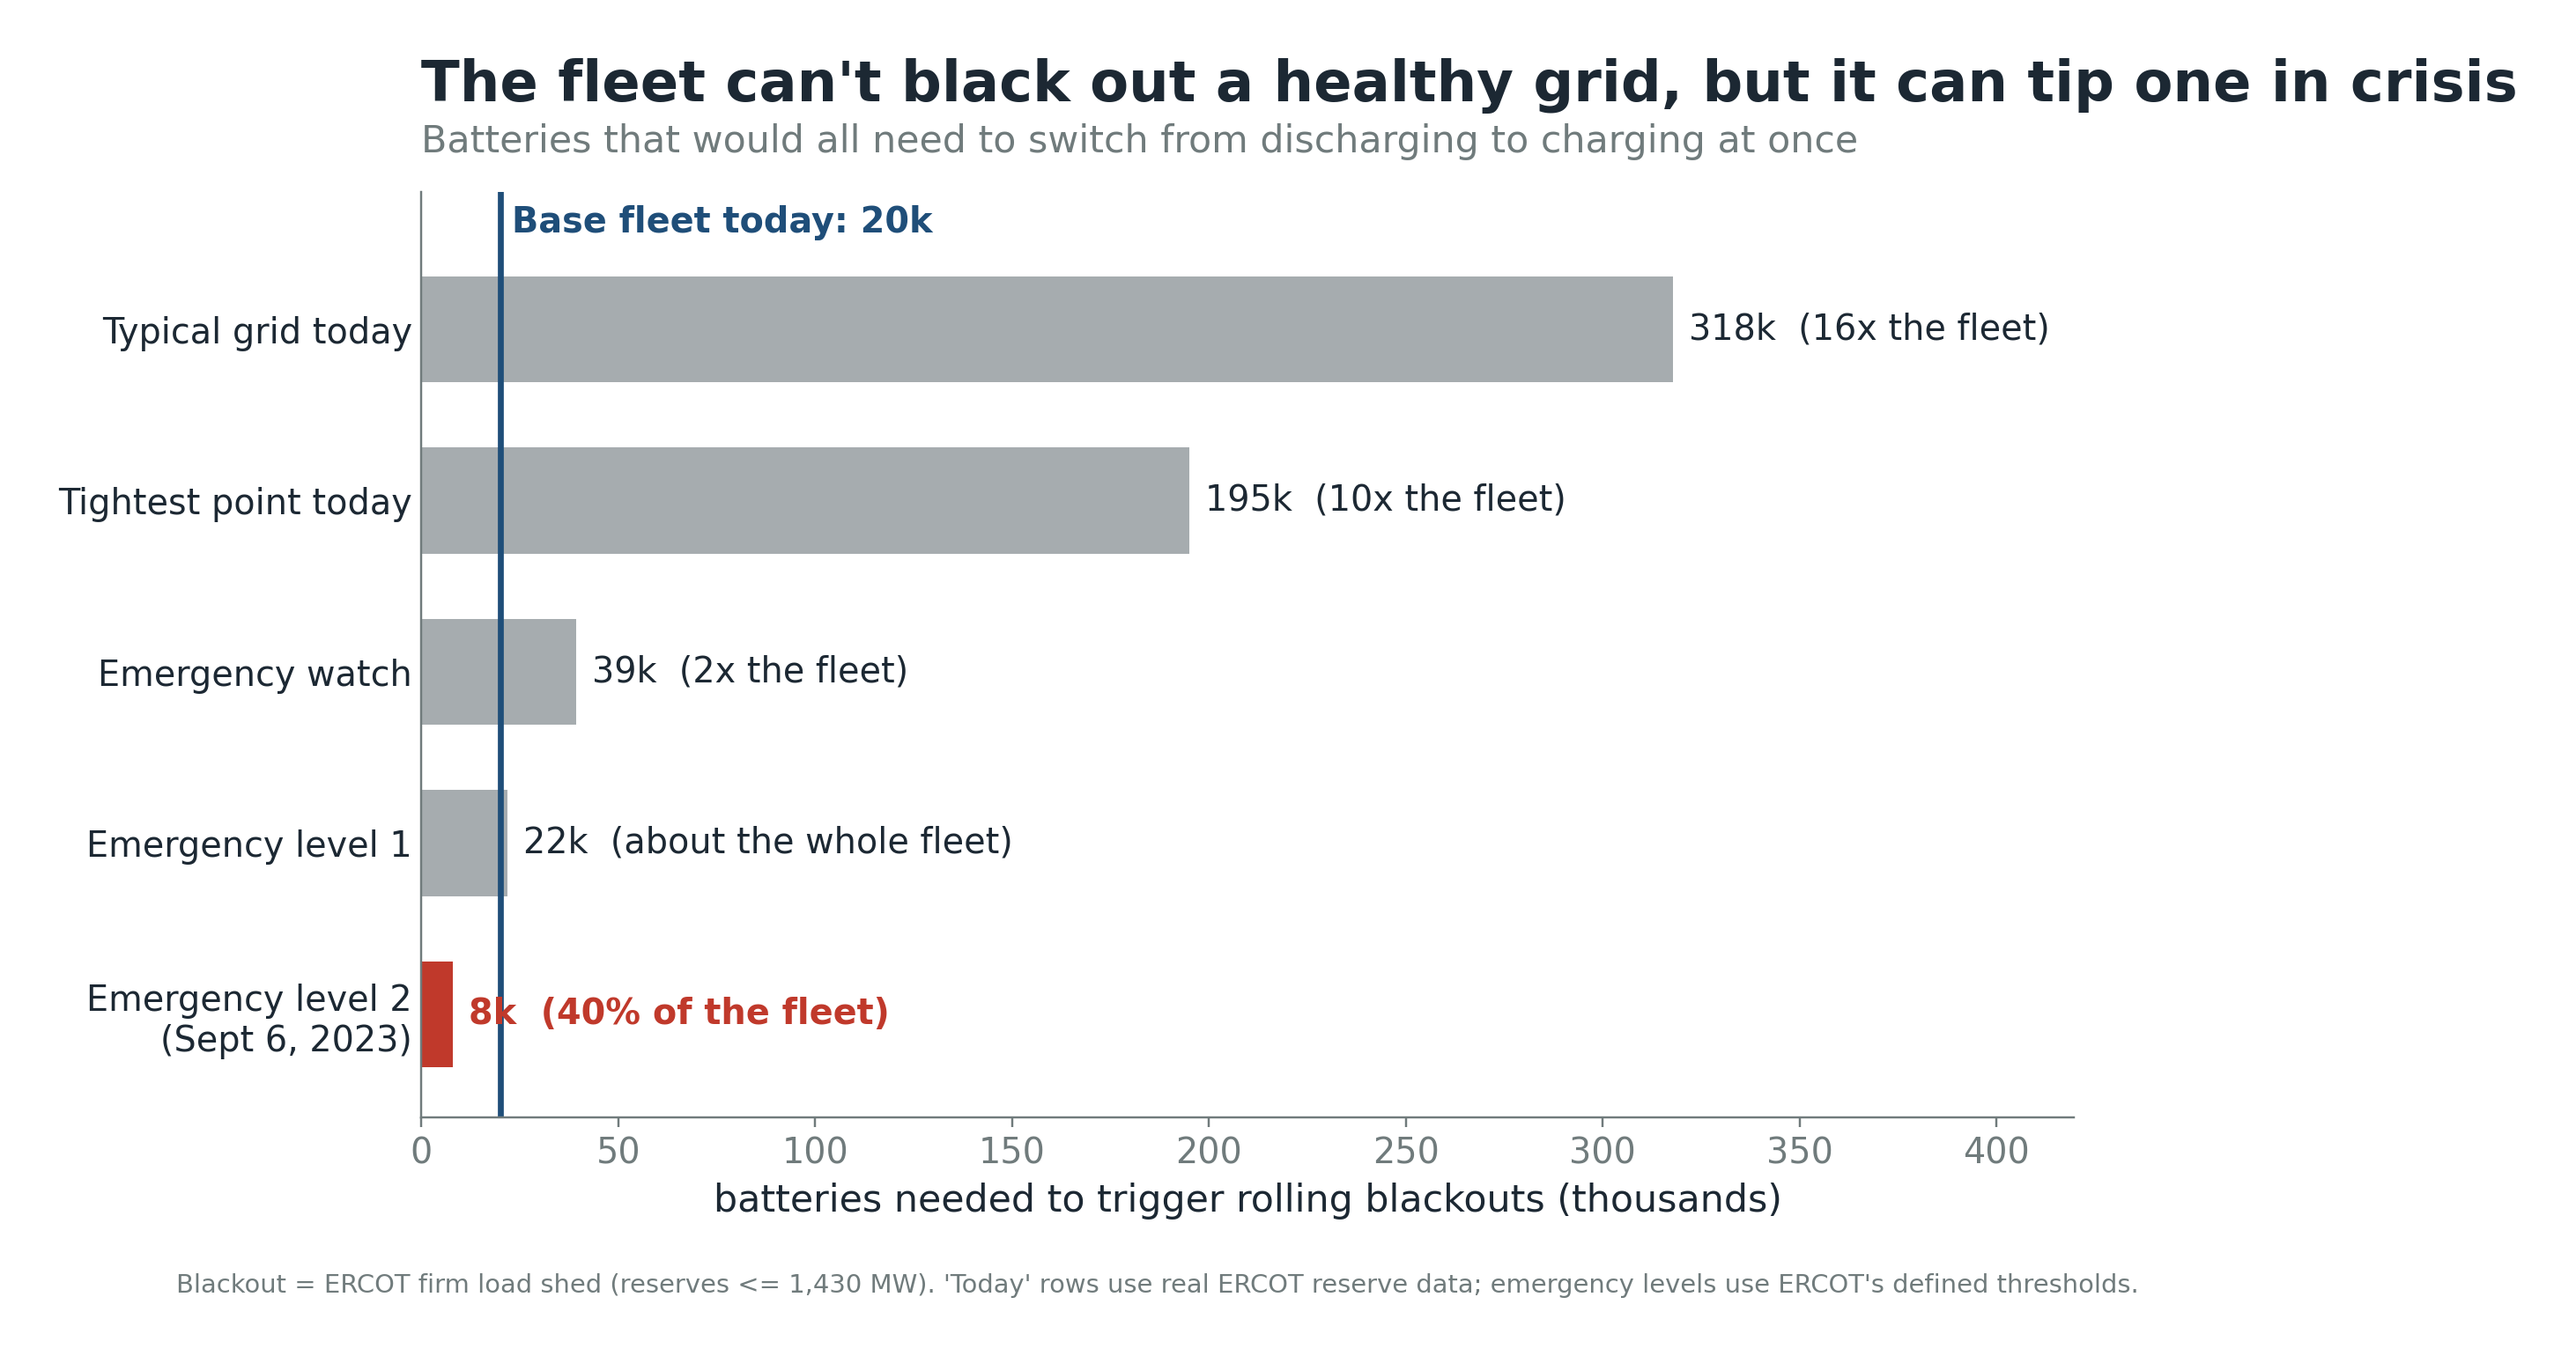
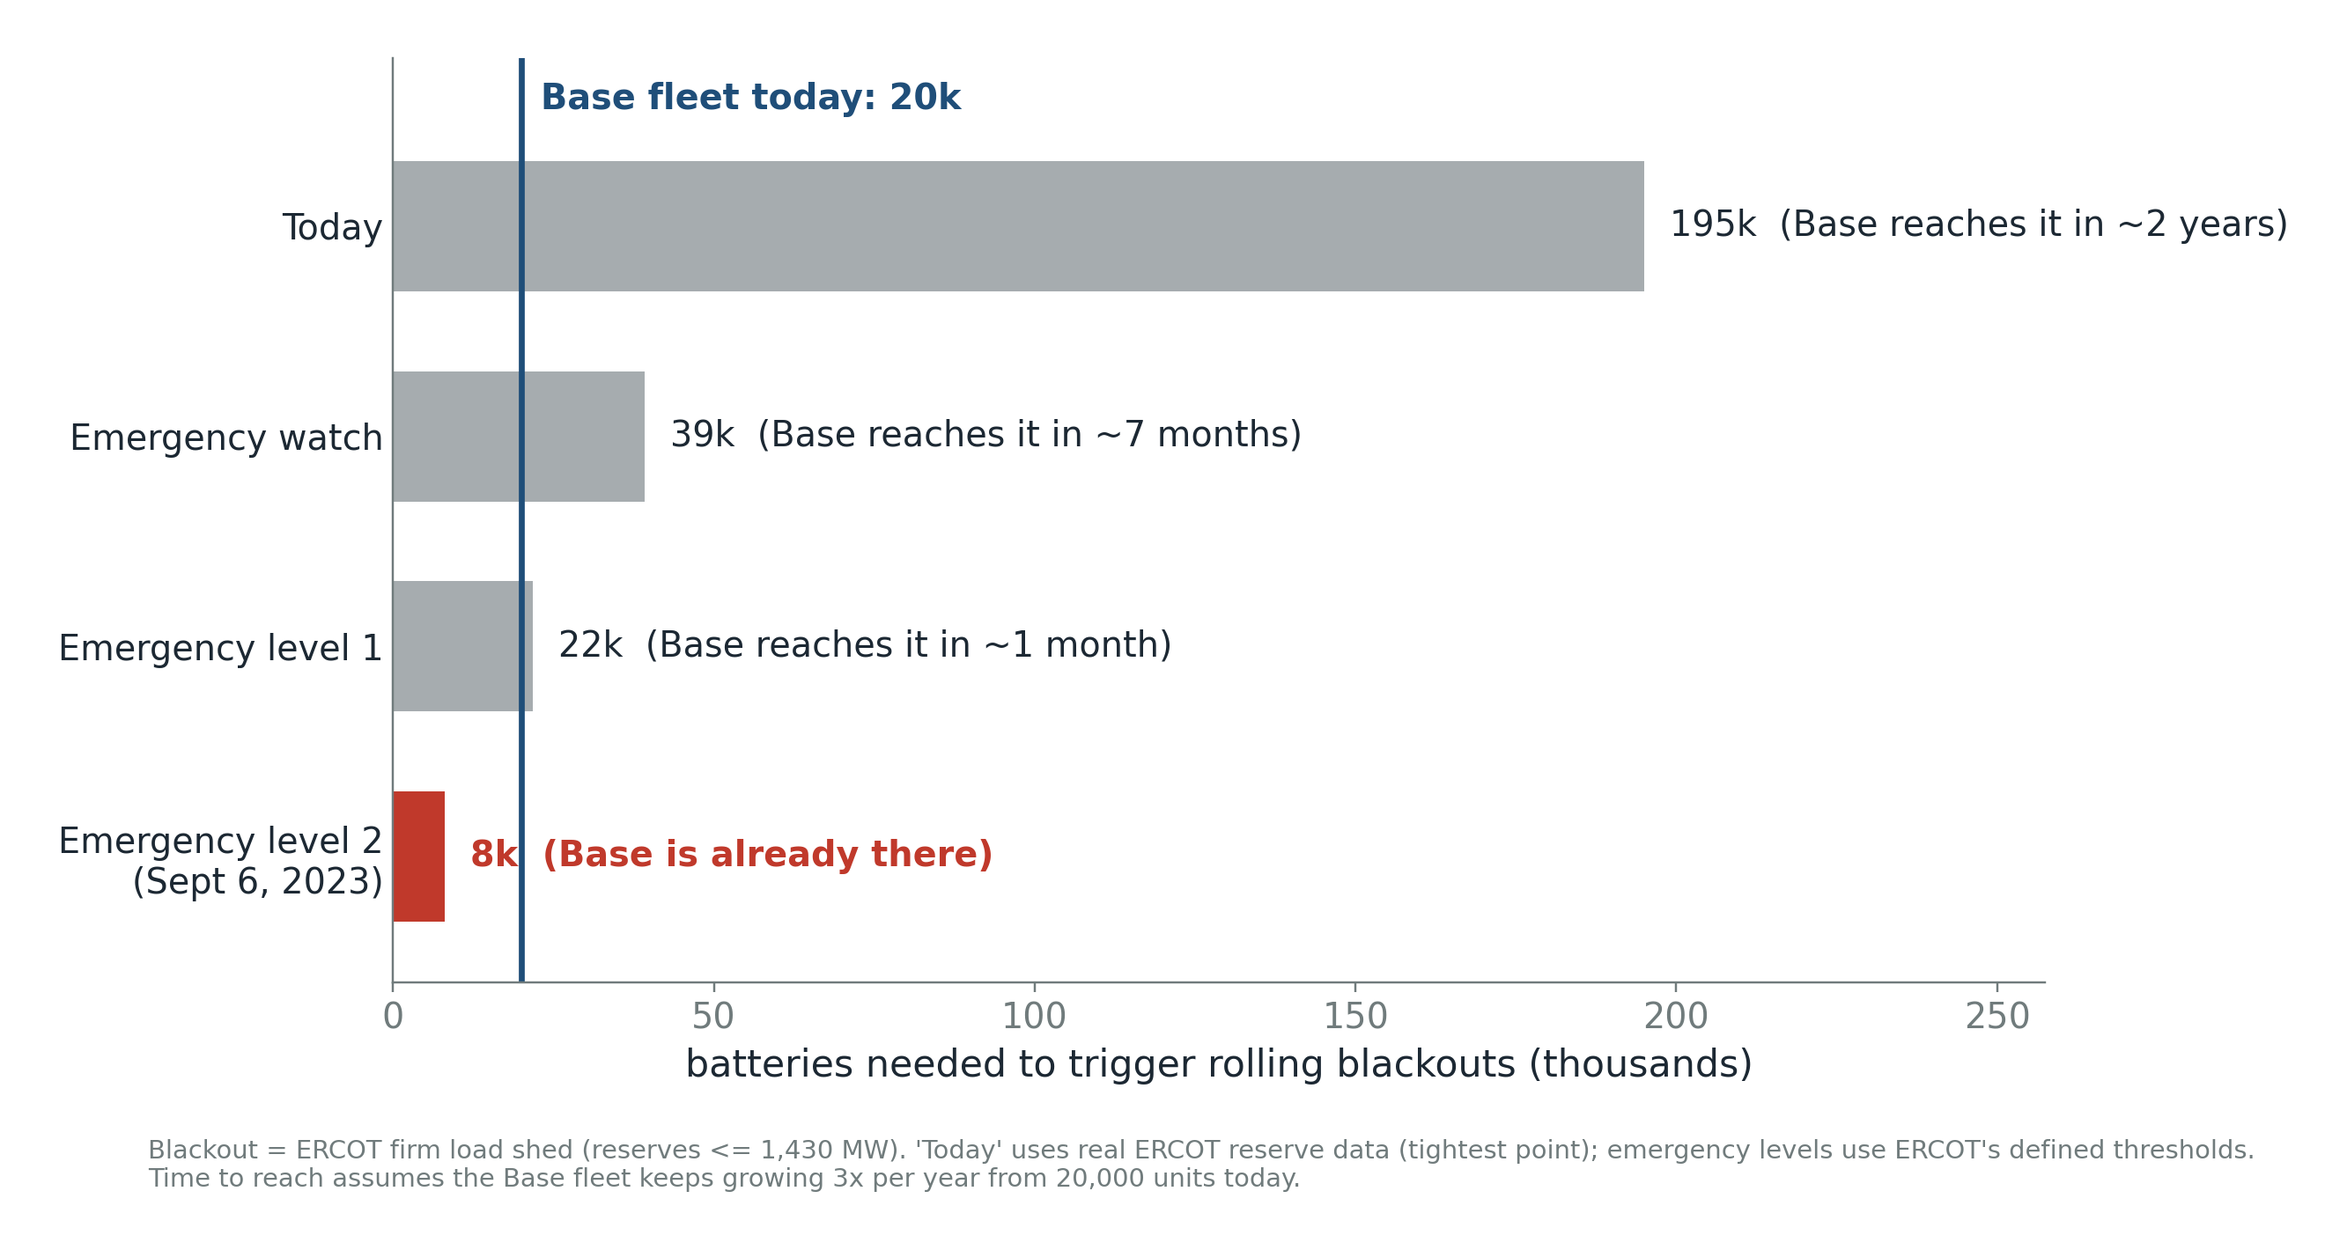
Simplify blackout-threshold slide and show time-to-reach
Drop the title/subtitle and the "typical grid" row, relabel the tightest
real-data point as "Today", and replace fleet multiples with how long Base
takes to reach each threshold at 3x/yr growth (rate shared with O10).

Changed region(s): [[0.0311, 0.031, 0.9966, 0.9606], [0.8409, 0.7746, 0.872, 0.8366], [0.218, 0.8366, 0.2492, 0.8676]]

diff --git a/present_figs.py b/present_figs.py
@@ -17,6 +17,7 @@ import numpy as np
 
 from sims._common import ROOT, plt
 from sims import o11b_feeder_map as o11b
+from sims.o10_market_power import GROWTH_PER_YEAR
 from data.topology import representative_feeder
 from models import adversary, degradation, feasibility
 from models.price import calibrate_to_observed, load_for_price
@@ -181,11 +182,21 @@ def neighborhood_map():
     return _save(fig, "03_neighborhood_map.png")
 
 
+def _time_to_reach(units):
+    """Plain-language time for the fleet to grow to `units` at GROWTH_PER_YEAR."""
+    if units <= FLEET_UNITS:
+        return "Base is already there"
+    years = np.log(units / FLEET_UNITS) / np.log(GROWTH_PER_YEAR)
+    if years >= 1:
+        return f"Base reaches it in ~{years:.0f} years" if round(years) > 1 else "Base reaches it in ~1 year"
+    months = max(1, round(years * 12))
+    return f"Base reaches it in ~{months} month{'s' if months > 1 else ''}"
+
+
 def blackout_threshold():
     rows = {r["grid condition"]: r for r in _read_table("O7_system_crash.csv")}
     items = [
-        ("Typical grid today", "Today median (REAL)"),
-        ("Tightest point today", "Today minimum (REAL)"),
+        ("Today", "Today minimum (REAL)"),
         ("Emergency watch", "EEA Watch"),
         ("Emergency level 1", "EEA1"),
         ("Emergency level 2\n(Sept 6, 2023)", "EEA2 = Summer 2023-09-06 (documented)"),
@@ -198,10 +209,7 @@ def blackout_threshold():
     colors = [RED if n <= FLEET_UNITS else GRAY for n in needed]
     ax.barh(y, needed / 1e3, color=colors, height=0.62)
     for yi, n in zip(y, needed):
-        mult = n / FLEET_UNITS
-        txt = (f"{n/1e3:,.0f}k  ({mult:.0f}x the fleet)" if mult >= 1.5
-               else f"{n/1e3:,.0f}k  ({mult:.0%} of the fleet)" if mult < 1
-               else f"{n/1e3:,.0f}k  (about the whole fleet)")
+        txt = f"{n/1e3:,.0f}k  ({_time_to_reach(n)})"
         ax.text(n / 1e3 + 4, yi, txt, va="center", fontsize=13,
                 color=RED if n <= FLEET_UNITS else INK,
                 fontweight="bold" if n <= FLEET_UNITS else "normal")
@@ -214,10 +222,10 @@ def blackout_threshold():
     ax.set_xlim(0, needed.max() / 1e3 * 1.32)
     ax.set_ylim(-0.6, len(items) - 0.2)
     ax.set_xlabel("batteries needed to trigger rolling blackouts (thousands)")
-    _headline(ax, "The fleet can't black out a healthy grid, but it can tip one in crisis",
-              "Batteries that would all need to switch from discharging to charging at once")
-    _source(fig, "Blackout = ERCOT firm load shed (reserves <= 1,430 MW). 'Today' rows use "
-                 "real ERCOT reserve data; emergency levels use ERCOT's defined thresholds.")
+    _source(fig, "Blackout = ERCOT firm load shed (reserves <= 1,430 MW). 'Today' uses "
+                 "real ERCOT reserve data (tightest point); emergency levels use ERCOT's defined thresholds.\n"
+                 f"Time to reach assumes the Base fleet keeps growing {GROWTH_PER_YEAR:.0f}x per year "
+                 f"from {FLEET_UNITS:,} units today.")
     return _save(fig, "04_blackout_threshold.png")
 
 
